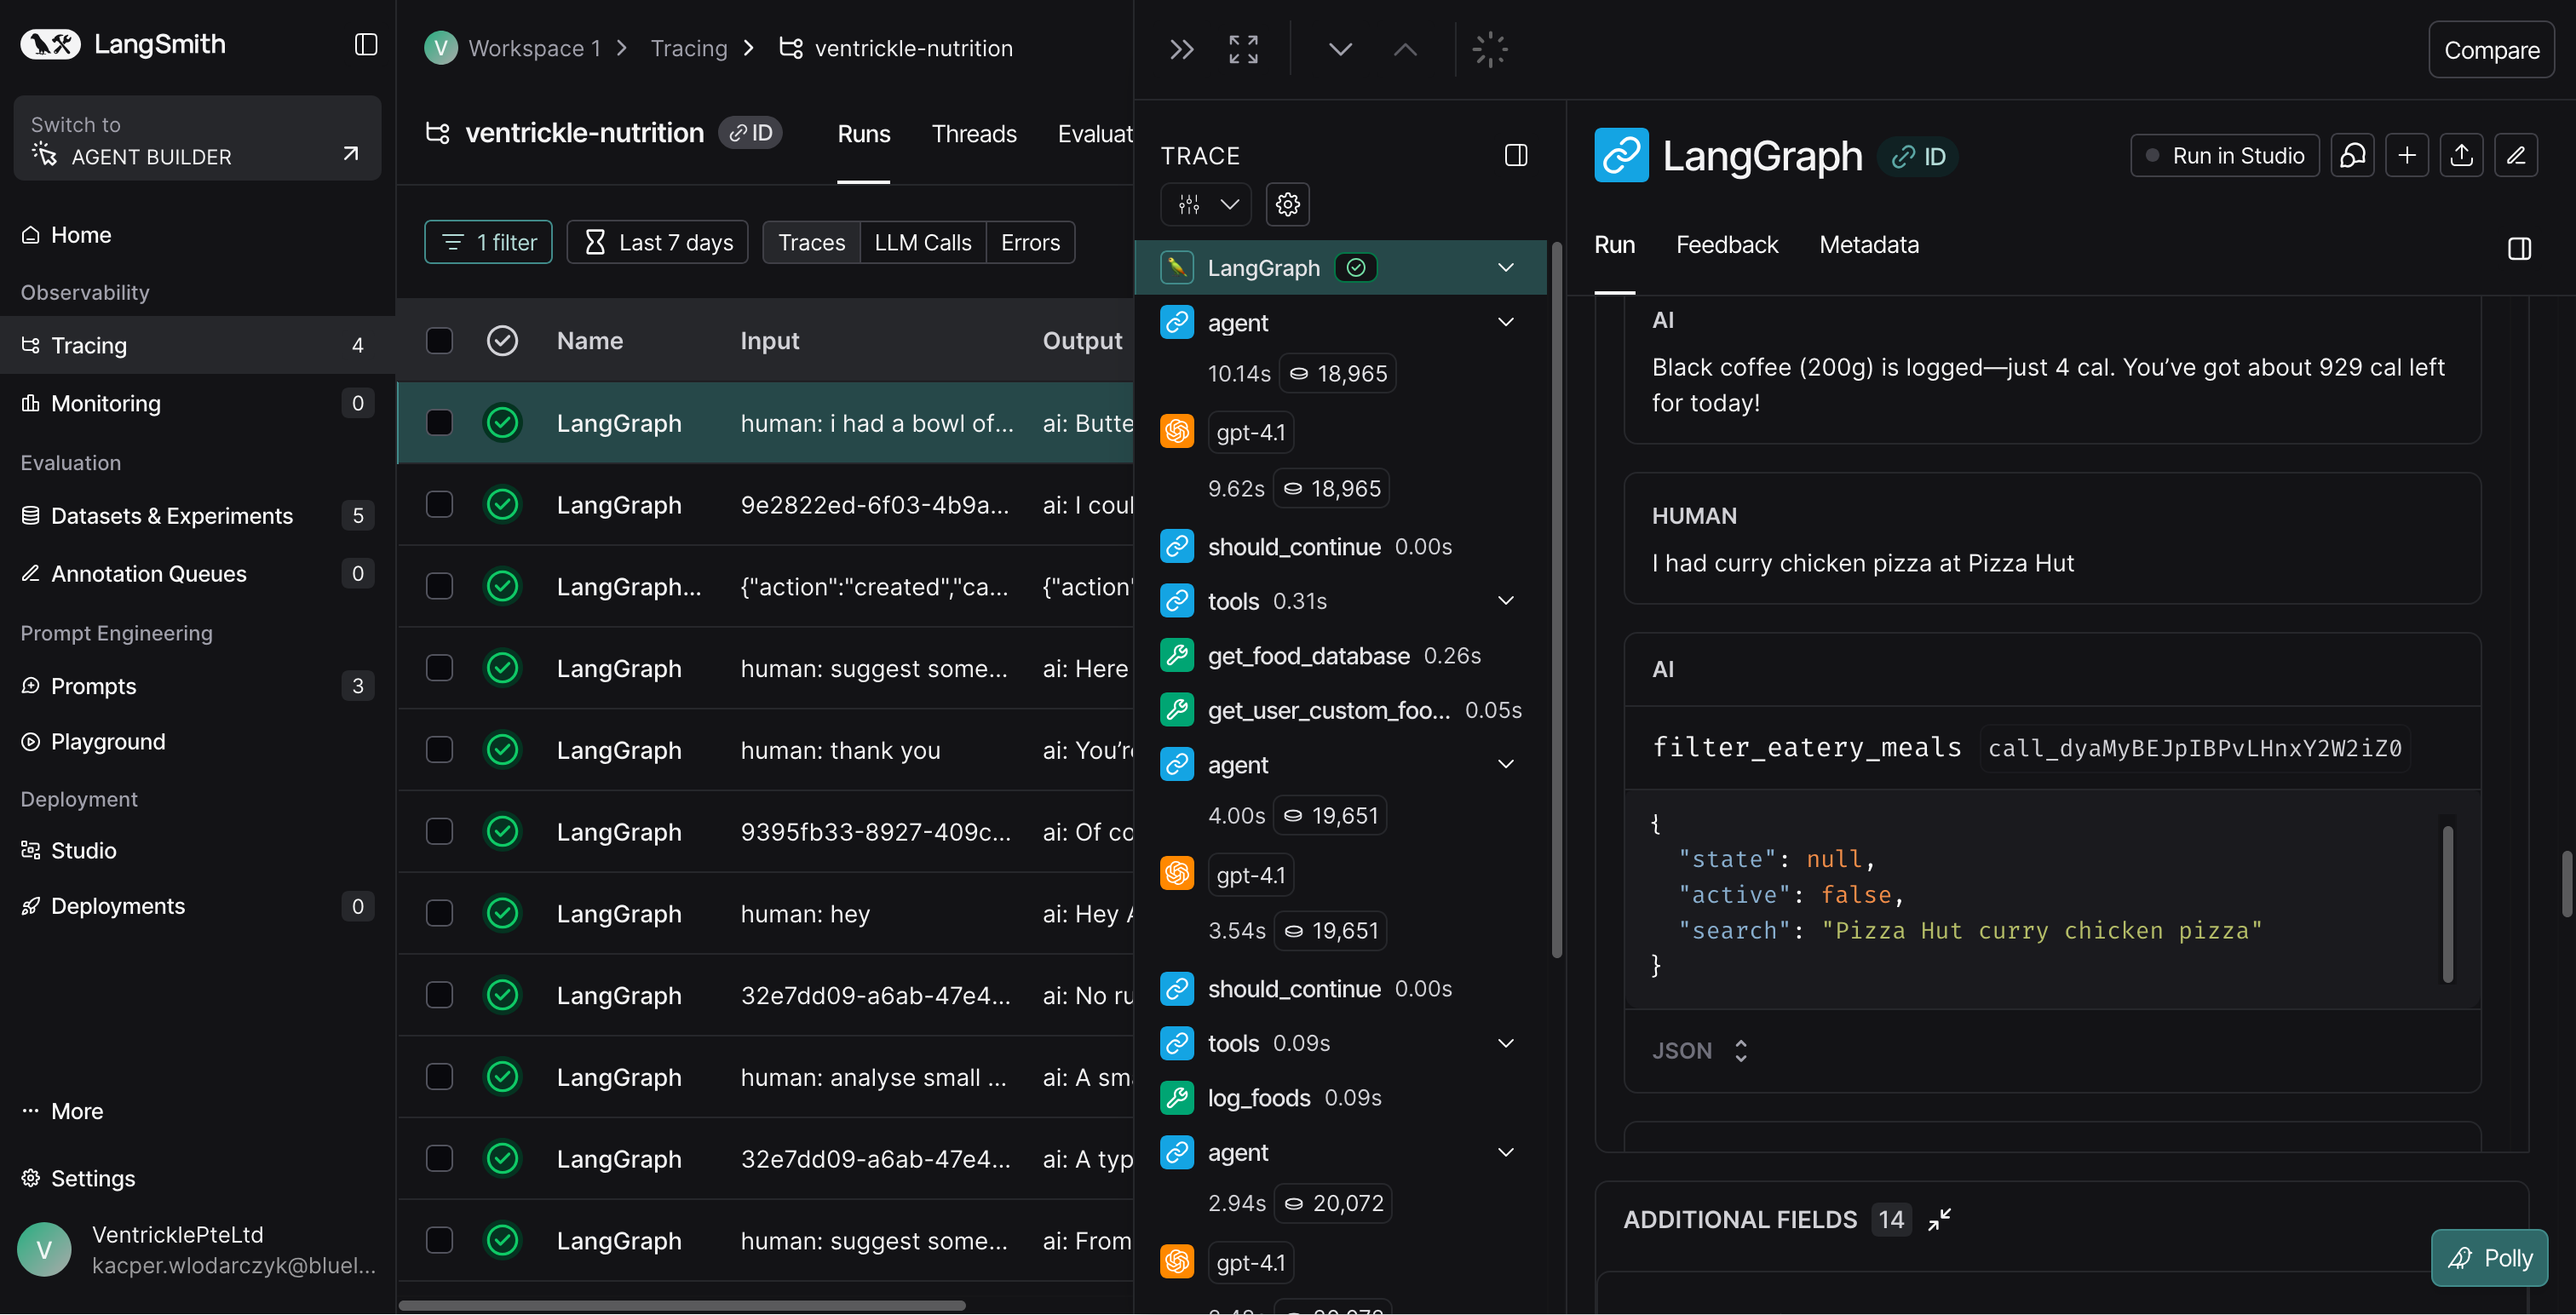
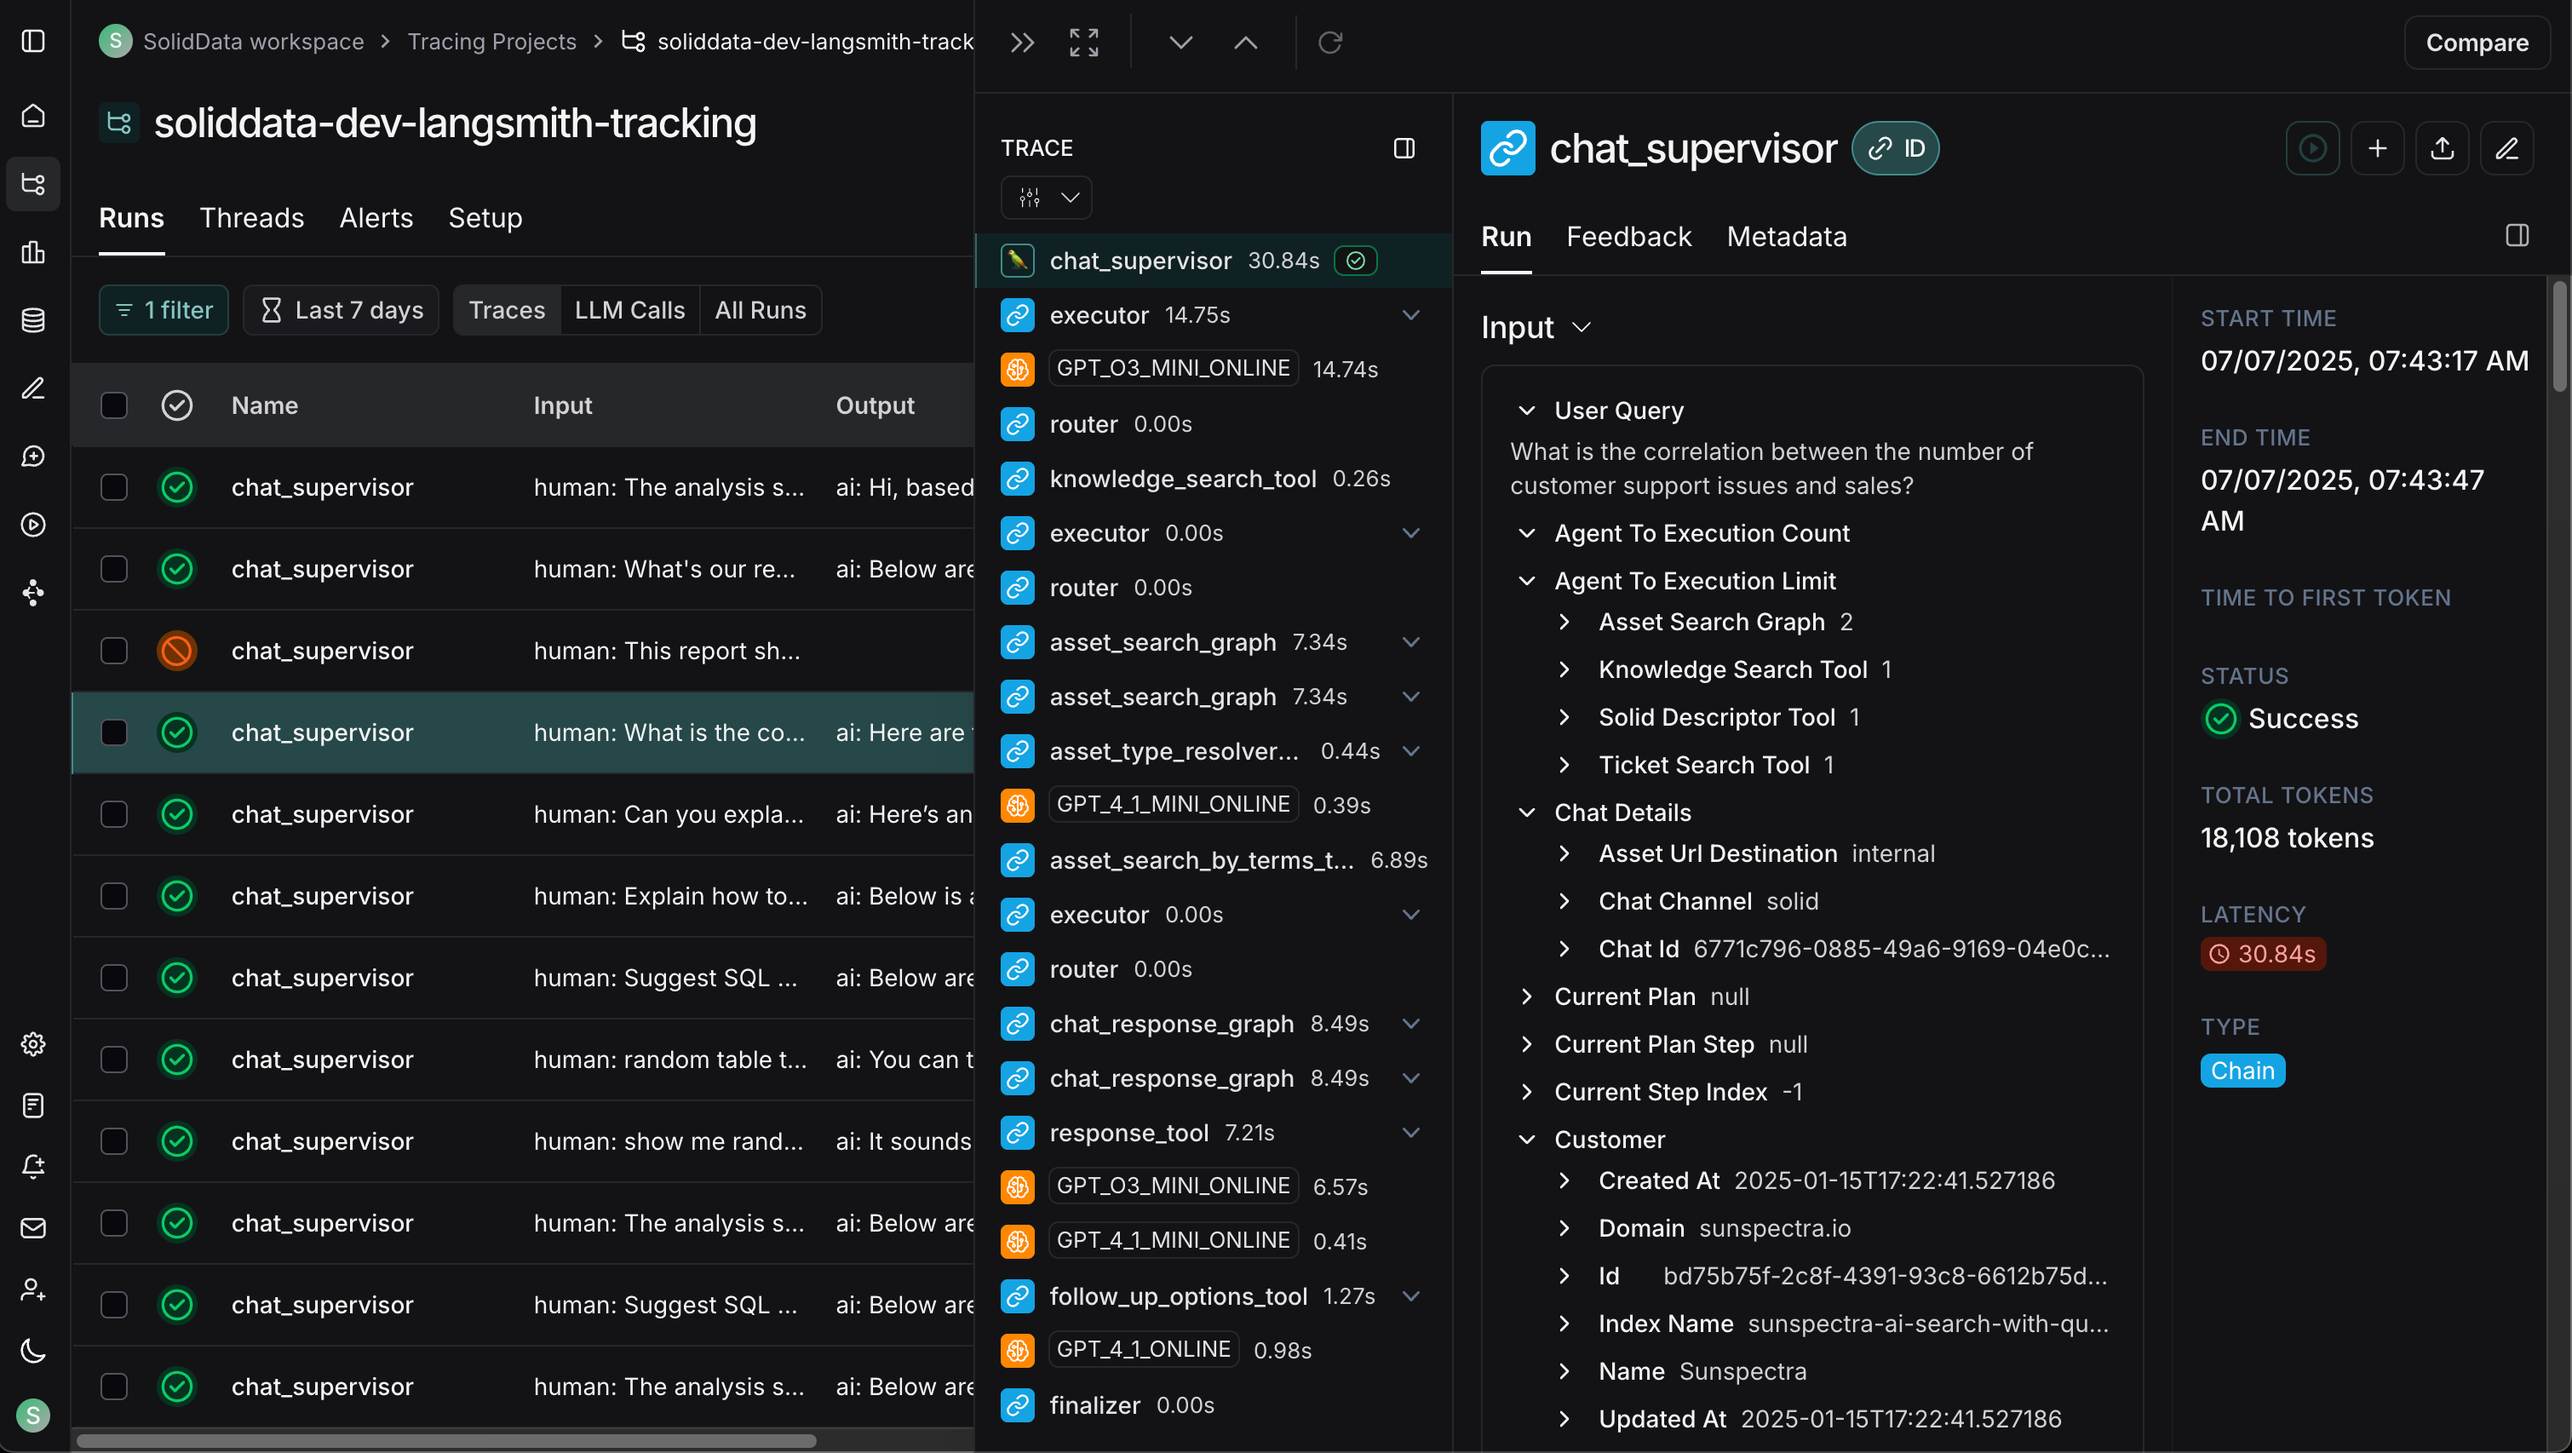
docs: update assets, version and changelog.md

diff --git a/docs/CHANGELOG.md b/docs/CHANGELOG.md
@@ -5,7 +5,7 @@ All notable changes to this project will be documented in this file.
 The format is based on [Keep a Changelog](https://keepachangelog.com/en/1.0.0/),
 and this project adheres to [Semantic Versioning](https://semver.org/spec/v2.0.0.html).
 
-## [0.1.8] - 2025-12-26
+## [0.1.9] - 2025-12-26
 
 ### Added
 
